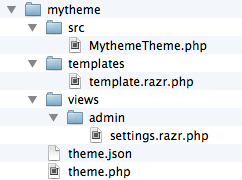
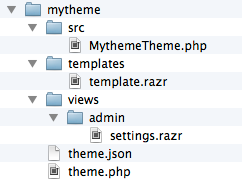
theme guide

Changed region(s): [[0.6942, 0.4167, 0.8099, 0.5], [0.7521, 0.7222, 0.8678, 0.8056]]

diff --git a/guide-theme.md b/guide-theme.md
@@ -6,66 +6,49 @@
 
 Each theme in Pagekit is located in its own folder in the `/themes` directory. In order for Pagekit to recognize a directory as a valid theme, you have to follow a certain file structure, at least for a few required files.
 
-You can create the basic structure manually or use Pagekit's provided command line tool that creates the initial structure for you. In this tutorial we will be using the command line tool.
+There are several ways to create the basic file structure. In the course of this tutorial, we will create the needed files by hand. If you like the command line, you can run a single command to create the structure (`php pagekit theme:generate mytheme`, more on that in the advanced theme docs). 
 
-Open the terminal and navigate to your Pagekit folder. To create a theme called `mytheme` , just run the following command.
+**Note**Check out the hello theme we've prepared for you. Apart from the basic structure, that package also includes examples of the functionality we will explain in this tutorial.
 
-```bash
-php pagekit theme:generate mytheme
-```
+To start, create an empty folder `/themes/mytheme`. Create the two files `theme.json` and `theme.php`. With these to files, your theme won't do anything, but it will already be recognized as a valid theme and visible in Pagekit's backend.
 
-You will be prompted for some information needed to initialize the theme.
+![Generated file structure](images/guide-theme-files-minimal.png)
 
-| Input             | Example               | Description |
-|-------------------|-----------------------|--------------|
-| `Title`           | `My Theme`            | The human readable name of your theme 
-| `Author`          | `YOOtheme`            | Your name or your company's name
-| `Email`           | `demo@yootheme.com`   | Your email address
-| `PHP Namespace`   | `MyTheme`             | Identifier used to organize your code files. PHP namespaces usually follow a CamelCase syntax.
-
-Have a look at the generated `/themes/mytheme` folder. In this tutorial, we will look at theses files one by one, whenever we add a a feature, we will talk about the fields needed.
+When working a bit more with themes, you will add more and more files. Even though we won't need all of this in this tutorial, have a look at the following structure to understand what the structure for a more complex theme will look like.
 
 ![Generated file structure](images/guide-theme-files.png)
 
-To begin with our theme, we just want to display a simple message. To do so, please open `themes/mytheme/templates/template.razr`, the content will look as follows.
+Let's have a look at the files we actually need in the beginning: `theme.php`, `theme.json` and `templates/template.php`.
 
-```html
-<!DOCTYPE html>
-<html>
-    <head>
-        <meta charset="utf-8">
-        @action('head')
-    </head>
-    <body>
+`theme.php` includes an array with all configuration for your theme. Let's start off with no configuration at all: an empty array.
 
-    </body>
-</html>
+```
+<?php return array();
 ```
 
-In the `<body>` section, insert your message so that the file looks something like this.
+`theme.json` contains meta data which is used by Pagekit's backend and the marketplace.
 
-```html
-<!DOCTYPE html>
-<html>
-    <head>
-        <meta charset="utf-8">
-        @action('head')
-    </head>
-    <body>
-        <h1>Hello Pagekit.</h1>
-    </body>
-</html>
+```JSON
+{
+    "name": "mytheme",
+    "version": "0.0.1",
+    "type": "theme",
+    "title": "My Theme",
+    "description": "",
+    "license": "",
+    "authors": [
+        {
+            "name": "YOOtheme",
+            "email": "demo@yootheme.com",
+            "homepage": "http://yootheme.com"
+        }
+    ]
+}
 ```
 
-Save the file and navigate to the Pagekit admin area in your browser to activate the theme. To do so, go to the *Settings* screen and click on *Themes*. Amongst the installed themes you should see your theme. Click the *Enable button*. Now have a look at the Pagekit installation, it should display the message you've inserted in the template file.
+`templates/template.razr` is the main file for the theme markup. Let's start off with this basic structure.
 
-## Set up the main layout
-
-We've managed to have our main template file display a message to the user. Our next task will be to replace this message with the content coming from Pagekit.
-
-To do so, simple replace the static message `<h1>Hello Pagekit.</h1>` with `@action('content')` inside your theme's `template.razr`.
-
-```html
+```HTML
 <!DOCTYPE html>
 <html>
     <head>
@@ -78,9 +61,15 @@ To do so, simple replace the static message `<h1>Hello Pagekit.</h1>` with `@act
 </html>
 ```
 
-Refresh the page in the browser and see some content appear in front of your eyes. If your page is blank, make sure you have some content in your Pagekit installation and that the page you're on actually links to something like the blog, a single blog post or a static page.
+Save the file and navigate to the Pagekit admin area in your browser to activate the theme. To do so, go to the *Settings* screen and click on *Themes*. Amongst the installed themes you should see your theme. Click the *Enable button*. Now have a look at the Pagekit installation, it should display some contant without any styling. 
 
-We've already used the `@action` directive twice and we will use it more often in the course of this guide. The basic idea here is that components in Pagekit (and any extension that is enabled) can register their content to specific actions. The `head` action for example is reserved for all things related to resources loaded in the `head` section. Pagekit will also output meta and title tags here. `content` is reserved for the main content on the current page - as you might have guessed.
+**Note** If your page is blank, make sure you have some content in your Pagekit installation and that the page you're on actually links to something like the blog, a single blog post or a static page.
+
+## The main template file
+
+As you've seen, the templating language of choice is Razr which is a subset of PHP. You can use PHP for templating, but Razr offers you a lot of shorthand syntax and quick access to many functions provided by Pagekit.
+
+We've already used the `@action` directive twice and we will use it more often in the course of this tutorial. The basic idea here is that components in Pagekit (and any extension that is enabled) can register their content to specific actions. The `head` action for example is reserved for all things related to resources loaded in the `head` section. Pagekit will also output meta and title tags here. `content` is reserved for the main content on the current page - as you might have guessed.
 
 Other `action` keywords include ... TODO: list all important actions (messages, ...?)
 
@@ -131,48 +120,12 @@ The directive `@script('jquery')` will add `jquery` to the list of required asse
 
 For a full list of assets included in Pagekit's installation, check out the asset list in the documentation (TODO).
 
-## Add a settings screen 
 
-If you want to keep your theme customizable, you will want to offer some settings that can easily be changed without modifying any code. To do so, you can simply point to a template file that will be linked from the backend. Add the following parameter to the `theme.php`.
+## Getting started with widgets
 
-```PHP
-'settings' => array(
-        'system'  => 'theme://mytheme/views/admin/settings.razr'
-    ),
-```
+## Widget renderer
 
-Create a file at that exact location `/themes/mytheme/views/admin/settings.razr` and add the markup for a form you want to display. When naming the form elements in a certain pattern, Pagekit will automatically handle the storing and update of settings for you. The form is supposed to send an array of config options, therefore all input fields are called `config[OPTION]`  with `OPTION` being a name you want to give that option.
-
-Make sure the form will be submitted to `@url('@system/themes/savesettings', ['name' => 'mytheme'])` as a `POST` request just like in the following example.
-
-**Note** As Pagekit comes pre-provided with UIkit, it is best to use UIkit's form markup.
-
-
-```PHP
-<form class="uk-form uk-form-horizontal" action="@url('@system/themes/savesettings', ['name' => 'mytheme'])" method="post">
-
-    <div class="uk-form-row">
-        <label for="form-sidebar-a-width" class="uk-form-label">@trans('Show Copyright')</label>
-        <div class="uk-form-controls">
-            <select id="form-sidebar-a-width" class="uk-form-width-large" name="config[show_copyright]">
-                <option value="1"@( $config['show_copyright'] ? ' selected' : '')>Show</option>
-                <option value="0"@( !$config['show_copyright'] ? ' selected' : '')>Hide</option>
-            </select>
-        </div>
-    </div>
-
-    <p>
-        <button class="uk-button uk-button-primary" type="submit">@trans('Save')</button>
-        <a class="uk-button" href="@url('@system/themes')">@trans('Close')</a>
-    </p>
-
-</form>
-```
-
-We can now access the settings value from within our theme. Add the following lines to your `template.razr`
-
-FIXME
-
+blank
 
 ## Widget positions
 
@@ -232,9 +185,21 @@ The recommended widget positions to include in your theme are as follows.
 | `footer`      | Footer      | 
 | `offcanvas`   | Offcanvas   | 
 
+## Where to go from here
 
+Congratulations, you've created your first theme! We've introduced the basic file structure and talked about the most important configuration options. You know how to change the markup, include CSS and JS and how to add widget functionality. Now it's time to get creative and play around.
 
-## Widget options
+If you're looking for advanced functionality, here are some pointers to other sections of the documentation:
+
+ - Add a settings screen to access from the backend
+ - Add options to change the styling of single widgets
+ - Put your theme on the marketplace
+
+For questions and discussion on best practices, check ouot the Google+ community.
+
+---
+
+## Advanced: Widget options
 
 You sometimes want to have widgets appear in different styles and even give the user the option to have a widget appear inside a box, with a certain ighlight or justr the little "new" badge. What this boils down to is configuration options to assign on a per-widget basis. In most cases you just want to configure which CSS classes to apply on a widget's surrounding `div`container.
 
@@ -294,10 +259,50 @@ Now, we need to make sure to actually render the CSS classes in our markup. To d
 
 To test the custom widget options, switch to your browser and edit the widget you've added before (or create a new widget). Note the new *Theme* tab on the top. Switch to that tab to see your configuration form.
 
-## Widget renderer
 
-equal, thirds, etc ...
+## Advanced: Add a settings screen 
 
-## Prepare for the market place
+If you want to keep your theme customizable, you will want to offer some settings that can easily be changed without modifying any code. To do so, you can simply point to a template file that will be linked from the backend. Add the following parameter to the `theme.php`.
+
+```PHP
+'settings' => array(
+        'system'  => 'theme://mytheme/views/admin/settings.razr'
+    ),
+```
+
+Create a file at that exact location `/themes/mytheme/views/admin/settings.razr` and add the markup for a form you want to display. When naming the form elements in a certain pattern, Pagekit will automatically handle the storing and update of settings for you. The form is supposed to send an array of config options, therefore all input fields are called `config[OPTION]`  with `OPTION` being a name you want to give that option.
+
+Make sure the form will be submitted to `@url('@system/themes/savesettings', ['name' => 'mytheme'])` as a `POST` request just like in the following example.
+
+**Note** As Pagekit comes pre-provided with UIkit, it is best to use UIkit's form markup.
+
+
+```PHP
+<form class="uk-form uk-form-horizontal" action="@url('@system/themes/savesettings', ['name' => 'mytheme'])" method="post">
+
+    <div class="uk-form-row">
+        <label for="form-sidebar-a-width" class="uk-form-label">@trans('Show Copyright')</label>
+        <div class="uk-form-controls">
+            <select id="form-sidebar-a-width" class="uk-form-width-large" name="config[show_copyright]">
+                <option value="1"@( $config['show_copyright'] ? ' selected' : '')>Show</option>
+                <option value="0"@( !$config['show_copyright'] ? ' selected' : '')>Hide</option>
+            </select>
+        </div>
+    </div>
+
+    <p>
+        <button class="uk-button uk-button-primary" type="submit">@trans('Save')</button>
+        <a class="uk-button" href="@url('@system/themes')">@trans('Close')</a>
+    </p>
+
+</form>
+```
+
+We can now access the settings value from within our theme. Add the following lines to your `template.razr`
+
+FIXME
+
+
+## Advanced: Prepare for the market place
 
 - details and screenshot in theme.json

diff --git a/themes.md b/themes.md
@@ -18,12 +18,21 @@ cd path/to/pagekit
 ./pagekit theme:generate MY-THEME
 ```
 
+You will be prompted for some information needed to initialize the theme.
+
+| Input             | Example               | Description |
+|-------------------|-----------------------|--------------|
+| `Title`           | `My Theme`            | The human readable name of your theme 
+| `Author`          | `YOOtheme`            | Your name or your company's name
+| `Email`           | `demo@yootheme.com`   | Your email address
+| `PHP Namespace`   | `MyTheme`             | Identifier used to organize your code files. PHP namespaces usually follow a CamelCase syntax.
+
 This produces the following file structure inside the directory `/themes/MY-THEME`. Note that this is the minimal setup for a theme, these 3 files are required for a valid theme.
 
 | Folder / File | Description |
 |---------------|-------------|
 | `/templates` | The markup files are located in this folder |
-| `/templates/template.razr.php` | The main markup file |
+| `/templates/template.razr` | The main markup file |
 | `theme.json` | Holds the metadata for the system and the marketplace |
 | `theme.php` | Holds the themes configuration, setup and custom code |
 
@@ -68,7 +77,7 @@ return array();
 
 ## Templating
 
-Templating in Pagekit is powered by the [Razr Templating engine](https://github.com/pagekit/razr). `/templates/template.razr.php` is the main layout file.
+Templating in Pagekit is powered by the [Razr Templating engine](https://github.com/pagekit/razr). `/templates/template.razr` is the main layout file.
 Here's a minimal example:
 
 ```html
@@ -91,7 +100,7 @@ Now head to the browser, enable your theme from the backend and give it a go. Yo
 
 ## Adding CSS and JavaScript
 
-So far, our site looks pretty dull. To add some of your own CSS and JavaScript, add the following line in the `<head>` section of `/templates/template.razr.php`.
+So far, our site looks pretty dull. To add some of your own CSS and JavaScript, add the following line in the `<head>` section of `/templates/template.razr`.
 
 ```html
 @style('MY-THEME', 'theme://MY-THEME/assets/css/MY-THEME.css')
@@ -121,7 +130,7 @@ return array(
     ...
 ```
 
-Inside `/templates/template.razr.php` you will determine the actual rendering location.
+Inside `/templates/template.razr` you will determine the actual rendering location.
 
 ```html
 @if (app.positions.exists('footer'))
@@ -145,11 +154,11 @@ To use a custom renderer `footer`, you can pass it as a value for the `renderer`
 We will need to register the custom renderer to make it availabe in the theme. To do so, open the main class and register the renderer in the `boot`method.
 ```php
 $app->on('system.position.renderer', function($event) use ($app) {
-    $event->register('footer', 'theme://MY-THEME/views/renderer/position.footer.razr.php');
+    $event->register('footer', 'theme://MY-THEME/views/renderer/position.footer.razr');
 });
 ```
 
-Now we create a renderer `position.footer.razr.php` in `/views/renderer`.
+Now we create a renderer `position.footer.razr` in `/views/renderer`.
 In this file you can use PHP code to process the data of the widget. You can access the widgets data with `@widgets` (or `$widgets` if you're writing the renderer in plain PHP).
 
 The renderer could look like this:
